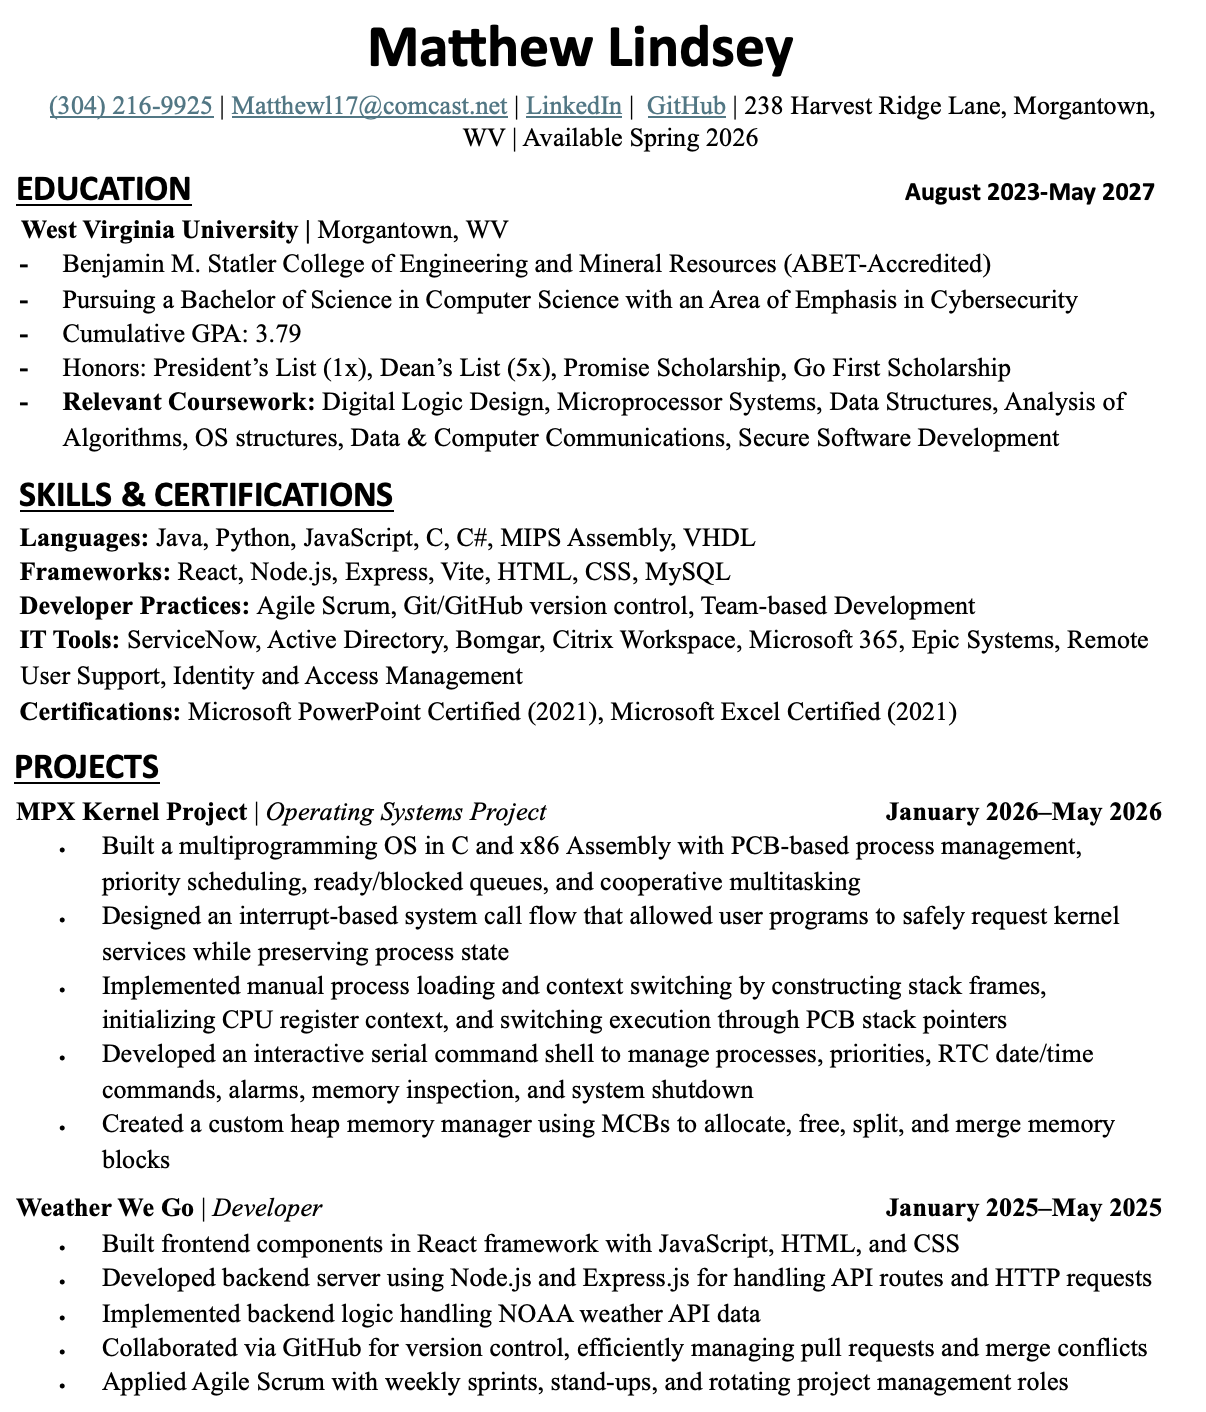
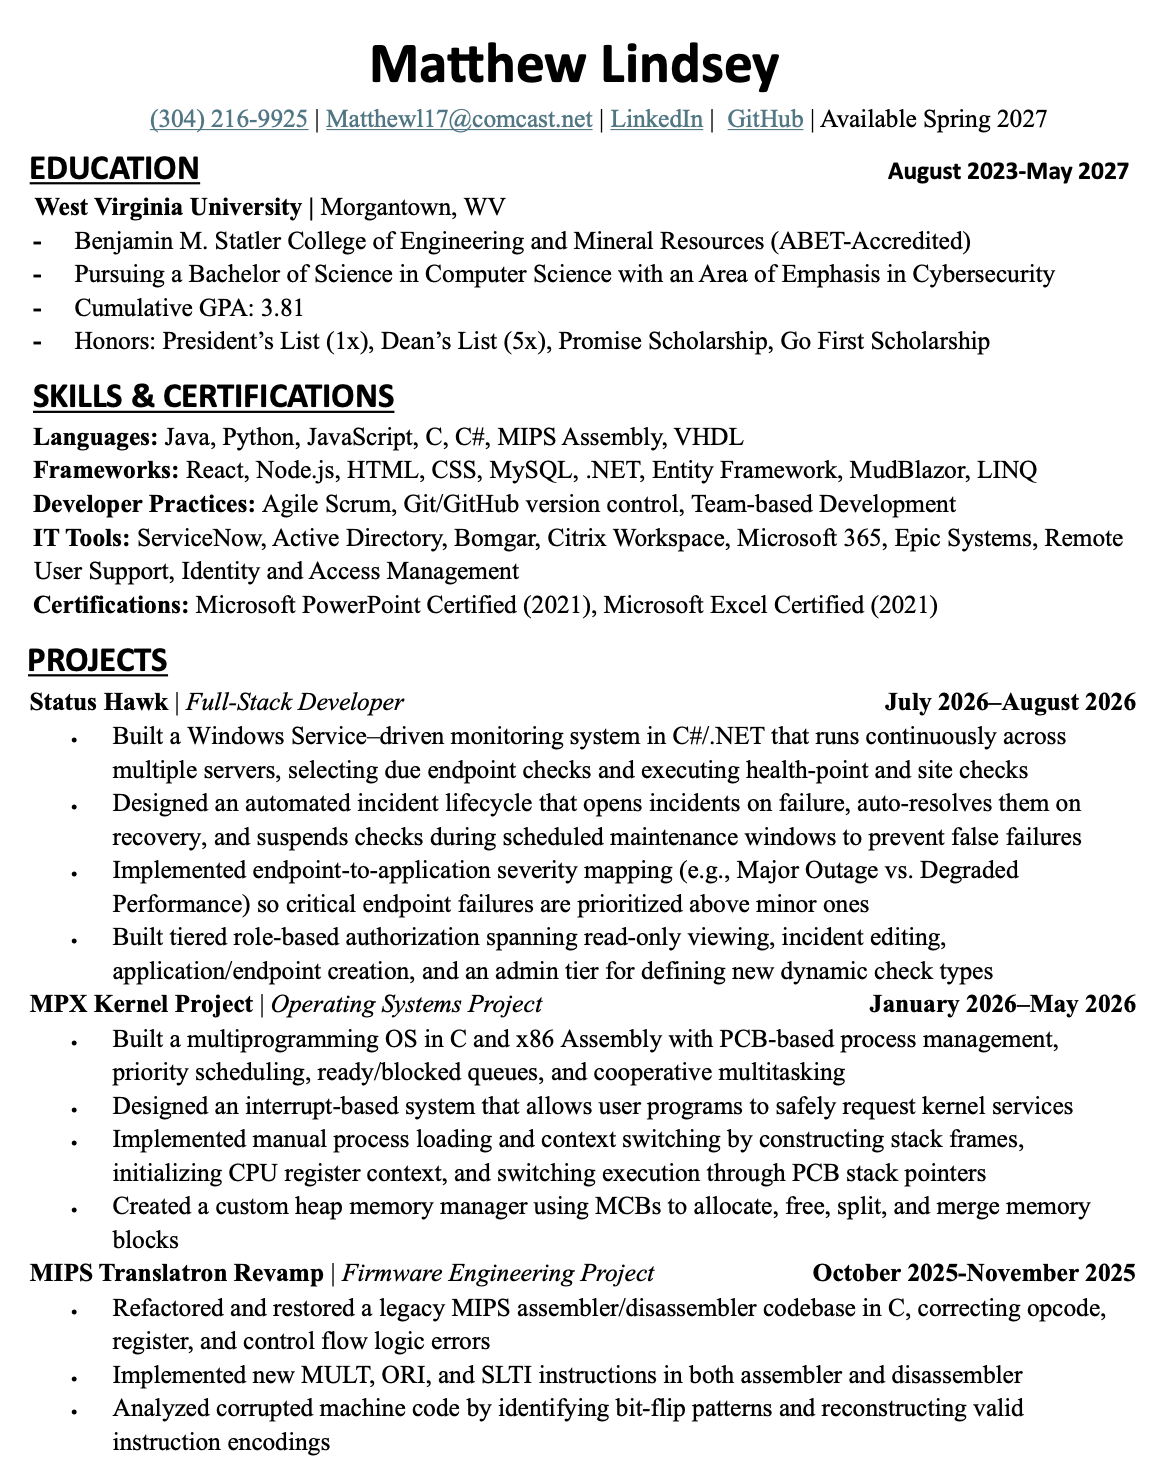
Updates

Changed region(s): [[0.0, 0.0, 1.0, 0.9972]]

diff --git a/src/pages/Projects.jsx b/src/pages/Projects.jsx
@@ -9,6 +9,43 @@ function Projects () {
     return (
         <div>
           <div className="projects-container">
+            {/* Status Hawk*/}
+            <div className="video-section">
+              <h2>Status Hawk</h2>
+              <p className='text-white text-center'>
+                <strong>
+                  Built a full-stack health-monitoring platform in .NET and Blazor that automates endpoint checks to track application 
+                  uptime across a software development department.
+                </strong>
+              </p>
+              <img className='iron-kernel-img' src={ListExpanded} alt="Status Hawk Dashboard" />
+              <div className='key-features'>
+                <p><strong>Key Features:</strong></p>
+                <ul>
+                  <li>Full-stack .NET / Blazor platform monitoring live application uptime across a dev department</li>
+                  <li>Designed around a Control Plane / Execution Plane architecture separating check scheduling from execution</li>
+                  <li>Built a REST API with both CRUD and worker-facing endpoints (PendingChecks, ReportResult)</li>
+                  <li>Implemented two check types: site checks (status-code only) and health-point checks (parses a JSON health body that can report unhealthy dependencies behind a 200)</li>
+                  <li>Auto-creates incidents when an endpoint crosses a failure threshold, and auto-resolves them on recovery</li>
+                  <li>Real-time System Status dashboard with a hierarchical view (Application → server instance → individual check) via MudTreeView</li>
+                  <li>Scheduled maintenance windows that suppress checks on covered endpoints to prevent false incidents during planned work</li>
+                  <li>Role-based access: admin (dev team) for full edit, read-only viewer (IT) for scoped visibility</li>
+                </ul>
+              </div>
+            </div>
+            <div className="description-section">
+              <h3>Project Description</h3>
+              <p>
+                StatusHawk is a health-monitoring platform that automatically verifies application uptime across WVU Medicine. A worker service 
+                (Execution Plane) performs scheduled HTTP checks against configured endpoints, while the server  (Control Plane) parses results, 
+                tracks incident state, and serves a Blazor/MudBlazor UI. The system supports application and  endpoint management, automated and 
+                manual incident tracking, recurring scheduled maintenance, and a live status dashboard drilling from application down to individual 
+                check results. Built with .NET, Blazor, MudBlazor, Entity Framework Core, and SQL Server on Azure DevOps.
+              </p>
+              <p className="link-text">
+                Source code private: internship work at WVU Medicine.
+              </p>
+            </div>
             { /* Iron Kernel MPX OS Project */}
             <div className="video-section">
               <h2>Iron Kernel</h2>
